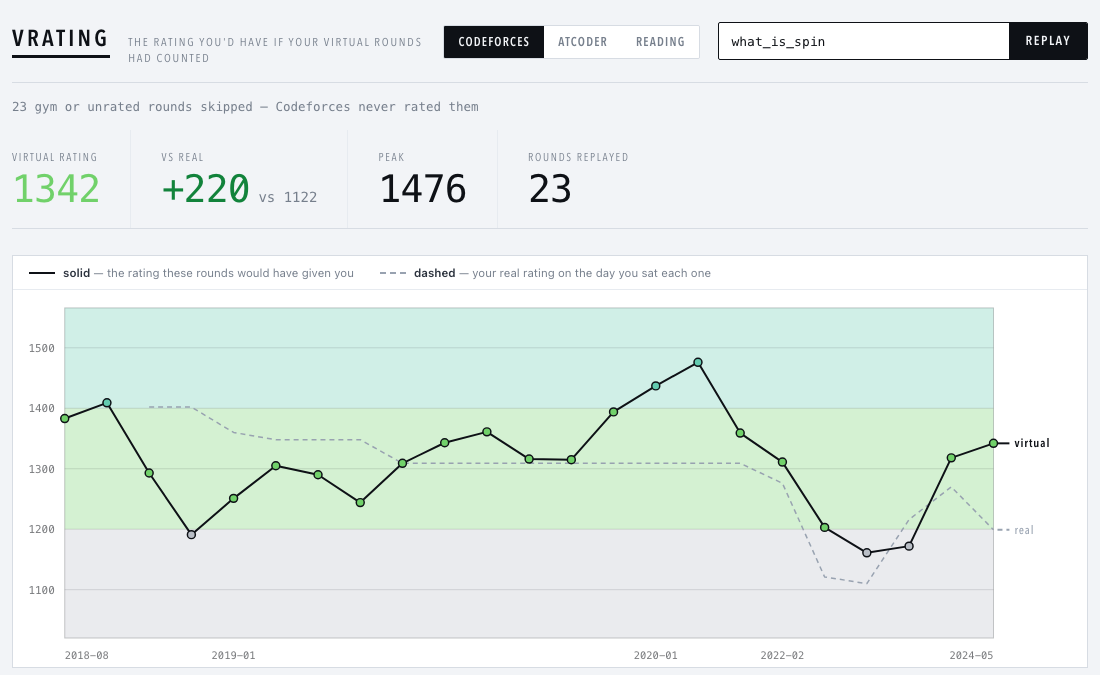
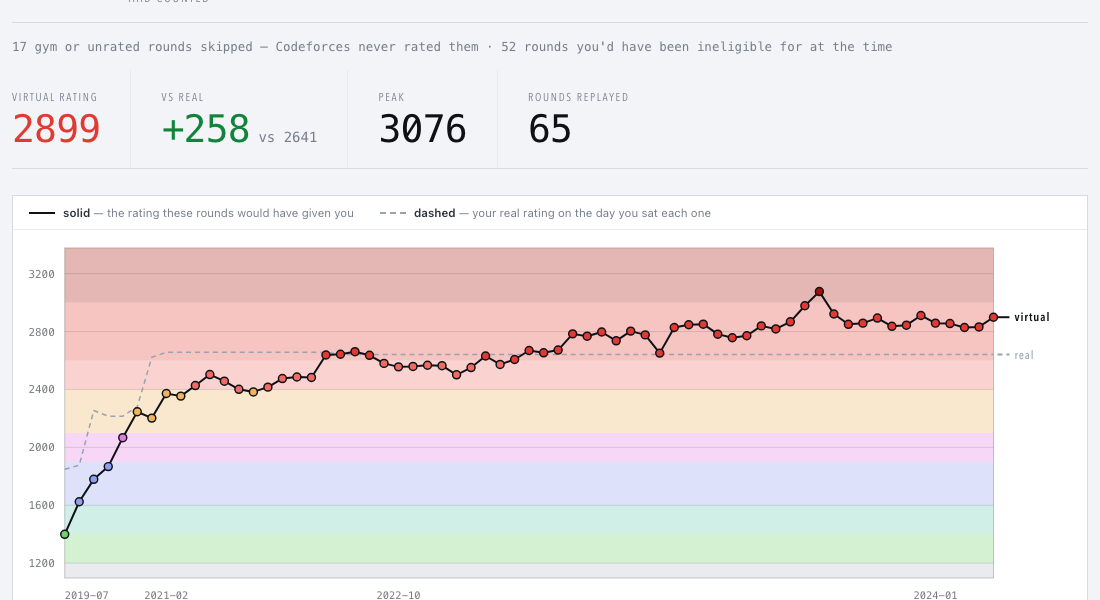
Alternate timelines: where you'd stand had you skipped each round
galen_colin worked this out by hand for one contest (blog 79415) to make the
point that individual disasters wash out: a -166 round had shrunk to a 25 point
difference six rounds later. A chained career can answer it for every round at
once, which is the honest reply to 'that contest ruined my rating'. On his own
history the costliest round is worth 15 points.

The counterfactual is O(rounds^2) chain passes, so scoring is hoisted out of the
loop -- leaving it in cost 155 s on a 134-round career against 1.8 s now, and a
test counts the calls rather than timing them. The result is also emitted after
'done' rather than before, so a long career does not sit with blank stats for
two seconds while it computes.

Screenshots switch to galen_colin, whose 1400-to-3076 climb shows the whole rank
ladder.

diff --git a/vrating/web/static/index.html b/vrating/web/static/index.html
@@ -213,6 +213,9 @@ tbody tr{animation:in .28s ease both}
 .meter{position:relative;height:7px;background:var(--rule-soft);border-radius:1px}
 .meter i{position:absolute;inset:0 auto 0 0;background:var(--ink);border-radius:1px}
 #msg{font-family:var(--mono);font-size:12.5px;color:var(--muted);padding:16px 0;min-height:20px}
+.alt{margin-top:26px;padding:13px 16px;border-left:3px solid var(--ink);background:var(--panel);
+     font-size:13px;line-height:1.6;max-width:78ch}
+.alt b{font-weight:600}
 .foot{margin-top:22px;font-size:12px;line-height:1.65;color:var(--muted);max-width:70ch}
 .foot b{color:var(--ink-2);font-weight:600}
 @media (prefers-reduced-motion:reduce){*{animation:none!important;transition:none!important}}
@@ -279,6 +282,8 @@ tbody tr{animation:in .28s ease both}
       <div id="tip" hidden></div>
     </div>
 
+    <p class="alt" id="alt" hidden></p>
+
     <table>
       <thead><tr>
         <th class="l">Round</th><th>Rank</th><th>Perf</th><th>Before</th><th>Δ</th><th>After</th><th>±</th>
@@ -314,6 +319,7 @@ const NS="http://www.w3.org/2000/svg";
 const $=id=>document.getElementById(id);
 
 let entries=[], real=[], expected=0, manyAccounts=false, lastUsers=null;
+let alternates={}, actualFinal=null;
 
 function el(tag,attrs,parent){
   const e=document.createElementNS(NS,tag);
@@ -349,6 +355,11 @@ function showTip(ev,e,ghostRating){
     `<a class="name" href="${contestUrl(e)}" target="_blank" rel="noopener">${e.name}</a>`+
     `<div class="meta">Rank <span>${e.rank}</span> of <span>${e.field_size}</span> · `+
     `performance <span>${e.performance}</span></div>`+
+    (()=>{const alt=alternates[e.contest_id];
+      if(alt==null||actualFinal==null)return "";
+      const d=alt-actualFinal;
+      return `<div class="meta">Skip this round and you would sit at <span>${alt}</span> today `+
+             `(<span>${d>=0?"+":""}${d}</span>)</div>`;})()+
     `<div class="meta">${when}${manyAccounts?" · sat on "+e.handle:""}`+
     (ghostRating==null?"":` · real rating then <span>${ghostRating}</span>`)+`</div>`+
     // only URL shapes verified against Codeforces' own documented forms
@@ -595,6 +606,9 @@ async function run(handle){
         $("msg").textContent=`Replaying ${entries.length} of ${expected}…`;
       } else if(name==="failed"){
         throw new Error(d.error);
+      } else if(name==="alternates"){
+        alternates=d.alternates||{};actualFinal=d.actual_final??null;
+        showAlternates();
       } else if(name==="done"){
         stats(d);draw();
         const skipped=expected-entries.length, unrated=entries.length-d.contests;
@@ -612,6 +626,22 @@ async function run(handle){
     });
   }catch(err){ $("msg").textContent="Error: "+err.message; }
   finally{ $("go").disabled=false; }
+}
+
+/** "What if I'd skipped that round?" — the counterfactual for every round at once. */
+function showAlternates(){
+  if(actualFinal==null)return;
+  const costs=Object.entries(alternates)
+    .map(([cid,fin])=>({cid,gain:fin-actualFinal}))
+    .filter(x=>Number.isFinite(x.gain)).sort((a,b)=>b.gain-a.gain);
+  if(!costs.length)return;
+  const worst=costs[0];
+  const name=(entries.find(e=>String(e.contest_id)===worst.cid)||{}).name||worst.cid;
+  $("alt").innerHTML=`Your worst round was <b>${name}</b>. Skipping it entirely would leave you `+
+    `<b>${worst.gain>0?"+":""}${Math.round(worst.gain)}</b> today — after enough rounds even a `+
+    `disaster washes out. <a href="https://codeforces.com/blog/entry/79415" target="_blank" `+
+    `rel="noopener">galen_colin argued this</a> from one contest by hand; hover any round for its own number.`;
+  $("alt").hidden=false;
 }
 
 // ---------- reading shelf ----------

diff --git a/vrating/career/engine.py b/vrating/career/engine.py
@@ -185,6 +185,61 @@ def build_career(handle: str, **kw) -> list[Entry]:
     return list(iter_career(handle, **kw))
 
 
+def _scored_rounds(participations, prepare):
+    """(prepared contest, rank) per round, computed once.
+
+    Scoring re-parses a round's submissions, which is far too expensive to repeat inside the
+    counterfactual loop: one chain pass over 134 rounds costs 1.2 s, so redoing it per round
+    would be 155 s of blocking work. The rank never depends on the rating, so it is fixed.
+    """
+    out = []
+    for p in participations:
+        prep = prepare(p["contest_id"])
+        if prep is None:
+            continue
+        points, penalty, _ = contest_mod.score_submissions(prep, p["submissions"])
+        out.append((p["contest_id"], prep, prep.rank_for(points, penalty)))
+    return out
+
+
+def _final_rating(scored, start_rating, skip_index=None) -> float:
+    """The rating a chain of pre-scored rounds ends on. Arithmetic only."""
+    rating = float(start_rating)
+    completed = 0
+    for i, (_, prep, rank) in enumerate(scored):
+        if i == skip_index:
+            continue
+        internal = rating + cf.internal_offset(completed, prep.start)
+        if not prep.is_rated_for(internal):
+            continue
+        rating += prep.delta_for(internal, rank) + cf.promotion(completed, prep.start)
+        completed += 1
+    return rating
+
+
+def alternate_timelines(participations, prepare=contest_mod.prepare, start_rating=None):
+    """Where you would stand today had you skipped each round in turn.
+
+    galen_colin worked this out by hand for a single contest and made the point that carries
+    the whole idea (codeforces.com/blog/entry/79415): a -166 disaster had shrunk to a 25 point
+    difference six rounds later. A chained career can answer it for every round at once, which
+    is the honest reply to "that one contest ruined my rating".
+
+    Returns {contest_id: final rating without that round}, plus the real final rating.
+    """
+    if not participations:
+        return {}, 0.0
+    if start_rating is None:
+        first = participations[0]["started"]
+        start_rating = START_RATING if cf.uses_new_account_rule(first) else cf.LEGACY_START_RATING
+
+    scored = _scored_rounds(participations, prepare)
+    actual = _final_rating(scored, start_rating)
+    out = {cid: _final_rating(scored, start_rating, skip_index=i)
+           for i, (cid, _, _) in enumerate(scored)}
+    return out, actual
+
+
 def summarize(handles, entries: list[dict], real: list[dict], real_handle="") -> dict:
     rated = [e for e in entries if e["rated"]]
     virtual = rated[-1]["new_rating"] if rated else START_RATING

diff --git a/tests/test_engine.py b/tests/test_engine.py
@@ -141,3 +141,41 @@ def test_rounds_are_prepared_in_parallel_without_losing_streaming(monkeypatch):
 
     assert first < 0.5, f"first entry took {first:.2f}s; streaming regressed to batch"
     assert total < 1.2, f"all 8 took {total:.2f}s; expected well under the 1.6s serial cost"
+
+
+def test_alternate_timelines_recomputes_the_chain_without_each_round():
+    """galen_colin's argument, made mechanical: what would you be rated had you skipped a
+    round? The chain has to be rerun, not just the delta subtracted, because every later
+    round was scored against a rating that would have been different."""
+    a, b, c = StubContest(delta=100), StubContest(delta=-30), StubContest(delta=10)
+    parts = [{"contest_id": i, "started": MODERN + i, "submissions": []} for i in range(3)]
+    lookup = {0: a, 1: b, 2: c}
+
+    alts, actual = engine.alternate_timelines(parts, prepare=lookup.get)
+    assert actual == 1180                       # 0 +100+500, -30+350, +10+250
+    assert set(alts) == {0, 1, 2}
+
+    # dropping the middle round also shifts which promotion the last one receives,
+    # so the answer is not simply actual + 30
+    assert alts[1] != actual + 30
+    assert alts[1] == 960                       # 0 +100+500 = 600, then +10+350
+
+
+def test_alternate_timelines_is_empty_for_no_rounds():
+    assert engine.alternate_timelines([], prepare=lambda c: None) == ({}, 0.0)
+
+
+def test_alternate_timelines_scores_each_round_once(monkeypatch):
+    """The counterfactual loop is O(rounds^2) chain passes, so anything expensive inside it
+    must be hoisted. Scoring re-parses submissions; leaving it in the loop cost 155 s on a
+    134-round career instead of 1.8 s. Asserted by counting calls, not by timing."""
+    calls = []
+    real = engine.contest_mod.score_submissions
+    monkeypatch.setattr(engine.contest_mod, "score_submissions",
+                        lambda prep, subs: (calls.append(1), real(prep, subs))[1])
+
+    stubs = [StubContest(delta=10) for _ in range(6)]
+    parts = [{"contest_id": i, "started": MODERN + i, "submissions": []} for i in range(6)]
+    engine.alternate_timelines(parts, prepare=dict(enumerate(stubs)).get)
+
+    assert len(calls) == 6, f"scored {len(calls)} times for 6 rounds; should be once each"

diff --git a/vrating/web/server.py b/vrating/web/server.py
@@ -273,7 +273,13 @@ class Handler(BaseHTTPRequestHandler):
             for entry in engine.iter_career(handles, participations=parts):
                 entries.append(asdict(entry))
                 self._event("entry", asdict(entry))
+            # Report the career first. The counterfactuals take a second or two on a long
+            # history, and holding `done` back for them leaves the page looking stalled at
+            # the very last round.
             self._event("done", engine.summarize(handles, entries, real, primary))
+            alts, actual = engine.alternate_timelines(parts)
+            self._event("alternates", {"alternates": {str(k): round(v) for k, v in alts.items()},
+                                       "actual_final": round(actual)})
         except BrokenPipeError:
             pass
         except Exception as exc:

diff --git a/README.md b/README.md
@@ -17,7 +17,8 @@ opens the page.
 ![The virtual rating career, drawn against the real one](docs/img/career.png)
 
 Solid line: the career your virtual rounds would have given you. Dashed: your real rating on
-the day you sat each one. The gap between them is the point.
+the day you sat each one. The gap between them is the point — above, `galen_colin` sits **258
+points higher** in the timeline where his practice counted, peaking at 3076.
 
 ---
 
@@ -29,6 +30,12 @@ Every round is scored against the actual field — every rated participant's rat
 scores, and the round's own published rating changes. Type a handle and it finds your virtual
 participations itself. Give it several, comma separated, and the careers merge: alt accounts
 are one person, and a round sat twice counts once.
+
+Hover any round for its **alternate timeline**: where you would stand today had you skipped
+it. galen_colin [made this argument by hand](https://codeforces.com/blog/entry/79415) for a
+single −166 disaster, showing it had shrunk to a 25-point difference six rounds later. Running
+it for every round at once is the honest answer to *"that one contest ruined my rating"* —
+across his own 65 rated rounds, the costliest was worth **15 points**.
 
 ### Tells you what to upsolve
 
